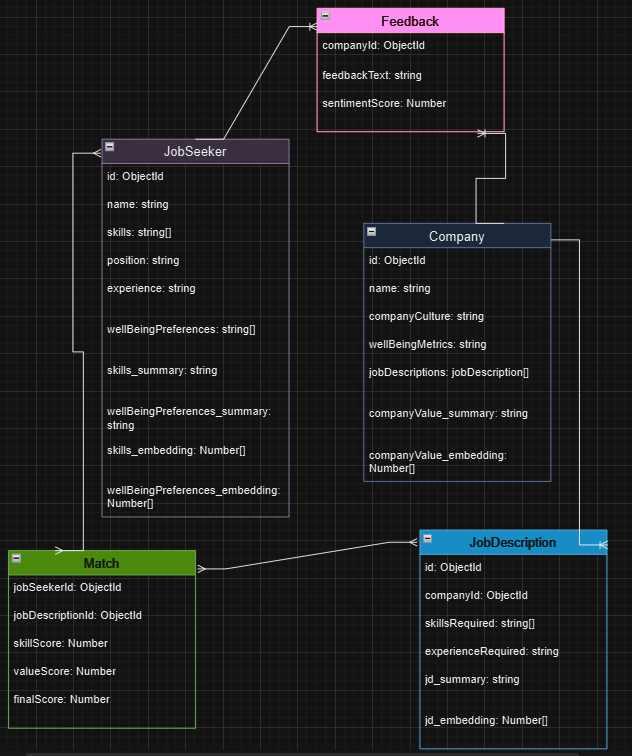
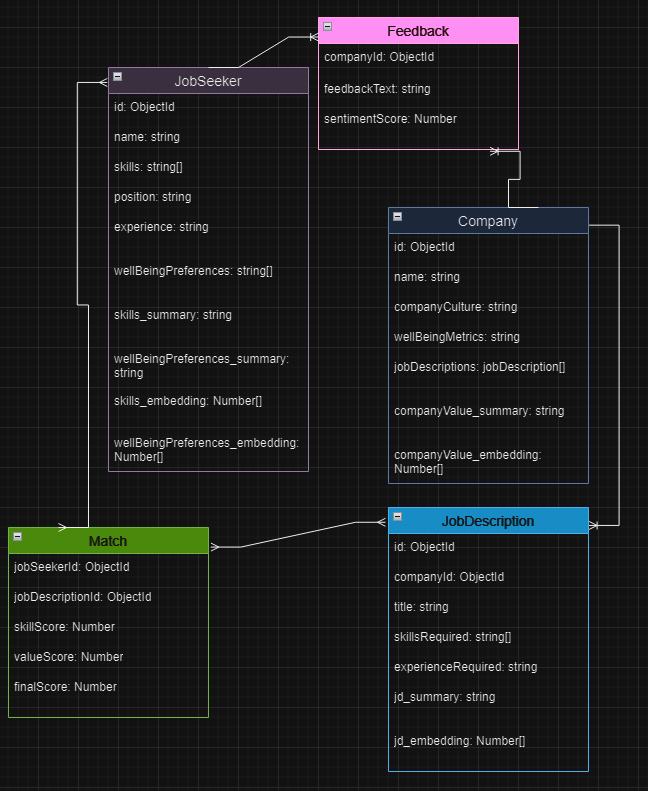
Update: Skeleton set up for langchain

diff --git a/server/src/langchain/summaries/summarizeJobseeker.ts b/server/src/langchain/summaries/summarizeJobseeker.ts
@@ -1,0 +1,29 @@
+import { IJobSeeker } from "../../interfaces/IJobSeeker";
+
+// TODO: Create embeddings for each job seeker record
+export async function createSkillOfJobSeekerSummary(
+  jobseeker: Partial<IJobSeeker>
+): Promise<string> {
+  return new Promise(async (resolve) => {
+    const jobSeekerDetails = `${jobseeker.name} is a ${
+      jobseeker.position
+    } with ${jobseeker.experience} years of experience. Skills: ${(
+      jobseeker.skills ?? []
+    ).join(", ")}. Well-being preferences: ${(
+      jobseeker.wellBeingPreferences ?? []
+    ).join(", ")}`;
+    resolve(jobSeekerDetails);
+  });
+}
+
+// TODO: Create embeddings for each well-being preference record
+export async function createWellBeingPreferencesSummary(
+  jobseeker: Partial<IJobSeeker>
+): Promise<string> {
+  return new Promise(async (resolve) => {
+    const wellBeingPreferences = `Well-being preferences of ${
+      jobseeker.name
+    }: ${(jobseeker.wellBeingPreferences ?? []).join(", ")}`;
+    resolve(wellBeingPreferences);
+  });
+}

diff --git a/server/src/interfaces/ICompany.ts b/server/src/interfaces/ICompany.ts
@@ -1,1 +1,11 @@
-// Implement later!
+import { Document } from "mongoose";
+import { IJobDescription } from "./IJobDescription";
+
+export interface ICompany extends Document {
+  name: string;
+  companyCulture: string;
+  wellBeingMetrics: string;
+  jobDescriptions: IJobDescription["_id"][];
+  companyValue_summary: string;
+  companyValue_embedding: Number[];
+}

diff --git a/server/src/interfaces/IJobSeeker.ts b/server/src/interfaces/IJobSeeker.ts
@@ -1,0 +1,13 @@
+import { Document } from "mongoose";
+
+export interface IJobSeeker extends Document {
+  name: string;
+  skills: string[];
+  position: string;
+  experience: string;
+  wellBeingPreferences: string[];
+  skills_summary: string;
+  wellBeingPreferences_summary: string;
+  skills_embedding: Number[];
+  wellBeingPreferences_embedding: Number[];
+}

diff --git a/server/src/interfaces/IJobDescription.ts b/server/src/interfaces/IJobDescription.ts
@@ -1,0 +1,10 @@
+import { Document } from "mongoose";
+
+export interface IJobDescription extends Document {
+  companyId: string;
+  title: string;
+  skillsRequired: string[];
+  experienceRequired: string;
+  jd_summary: string;
+  jd_embedding: Number[];
+}
